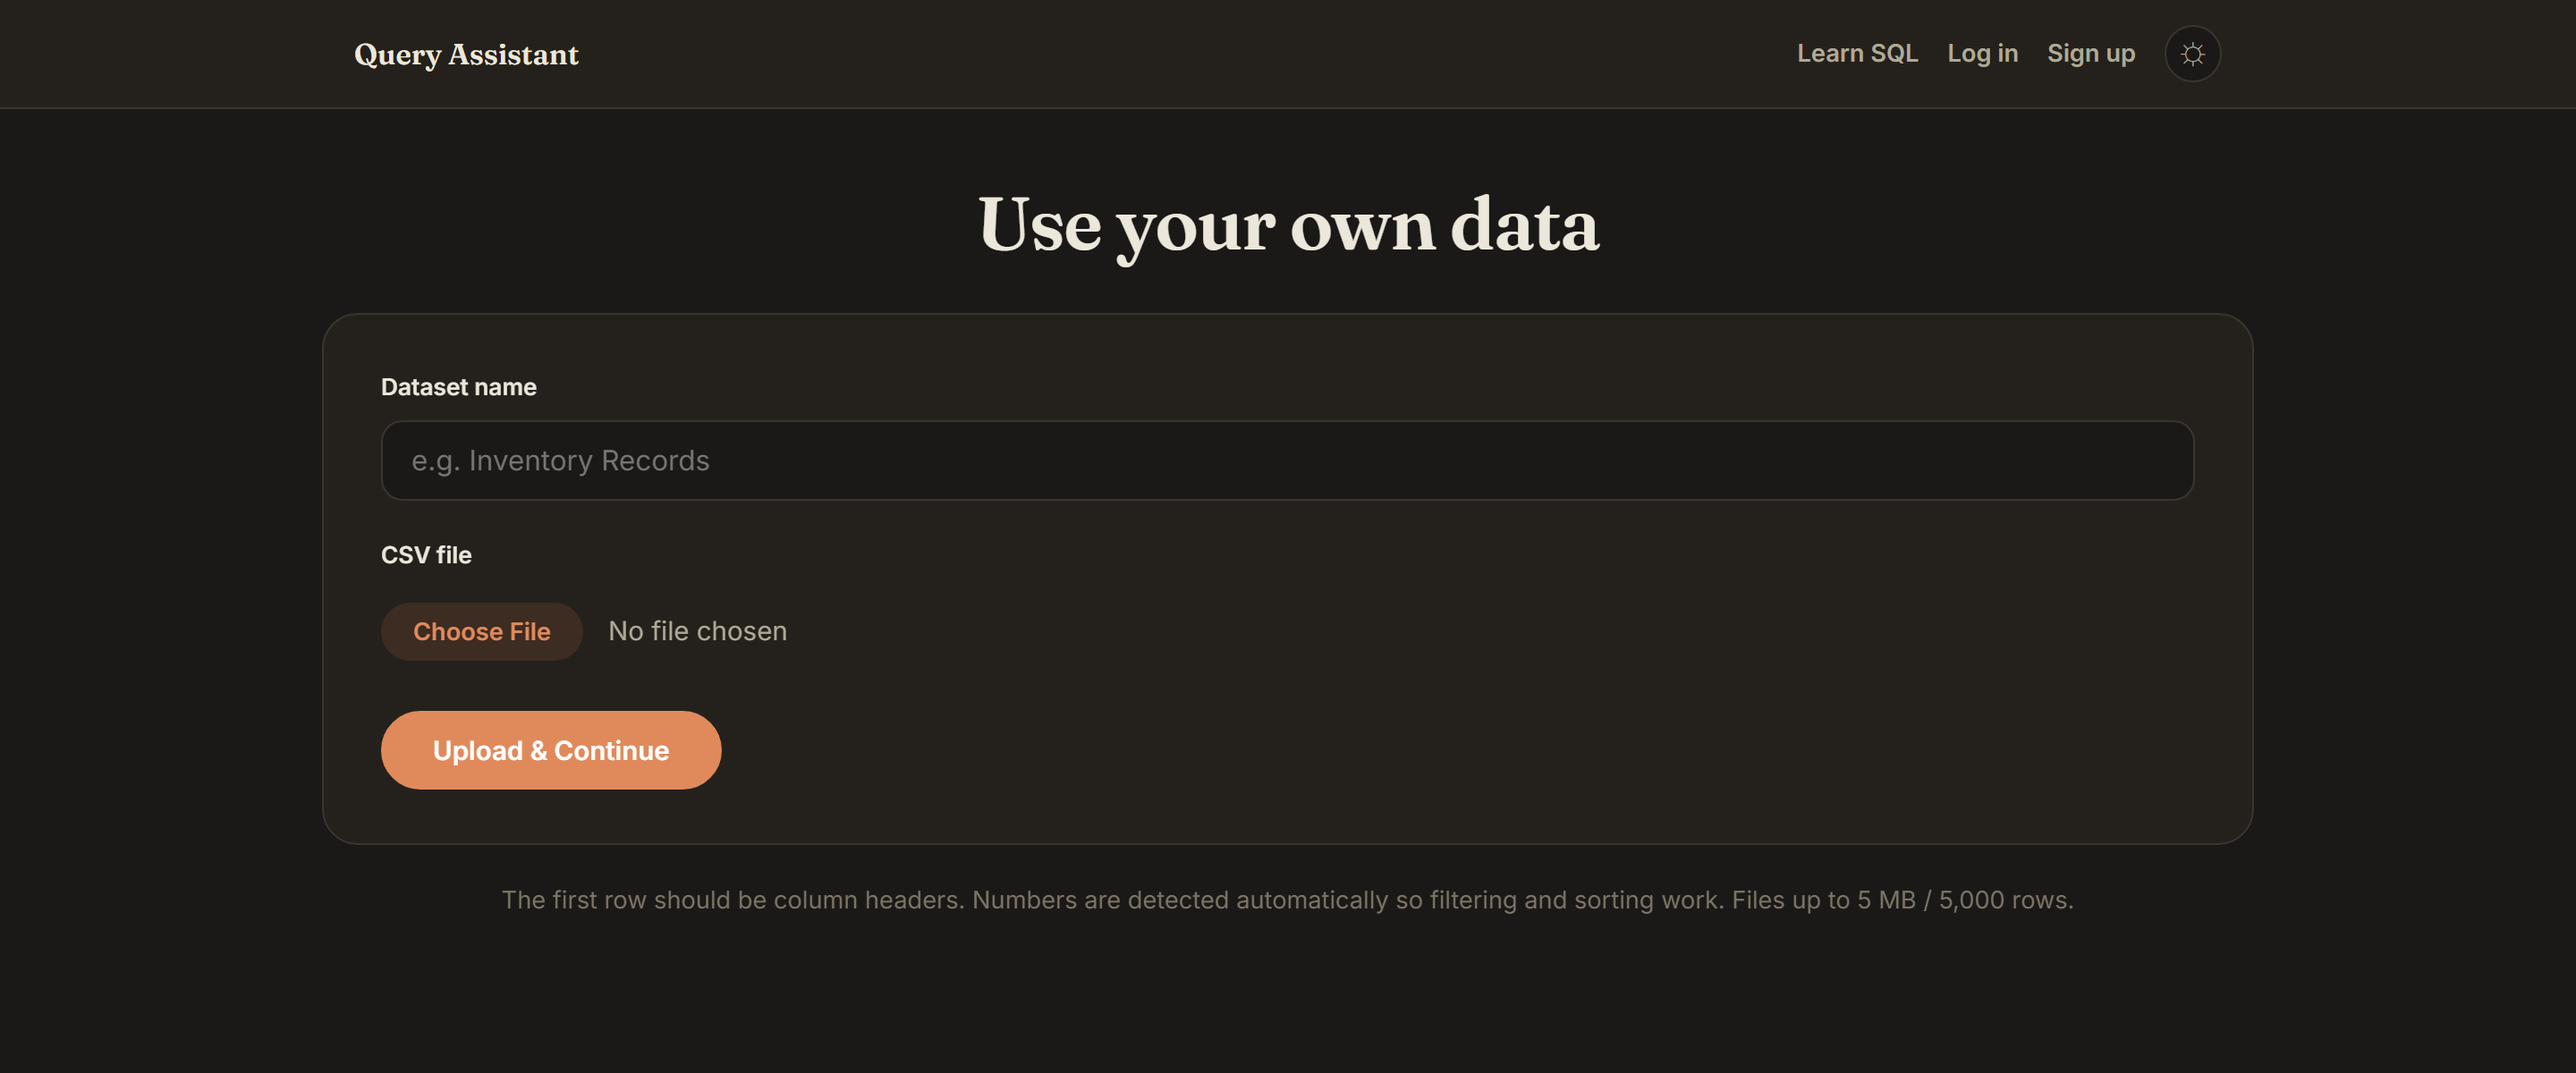
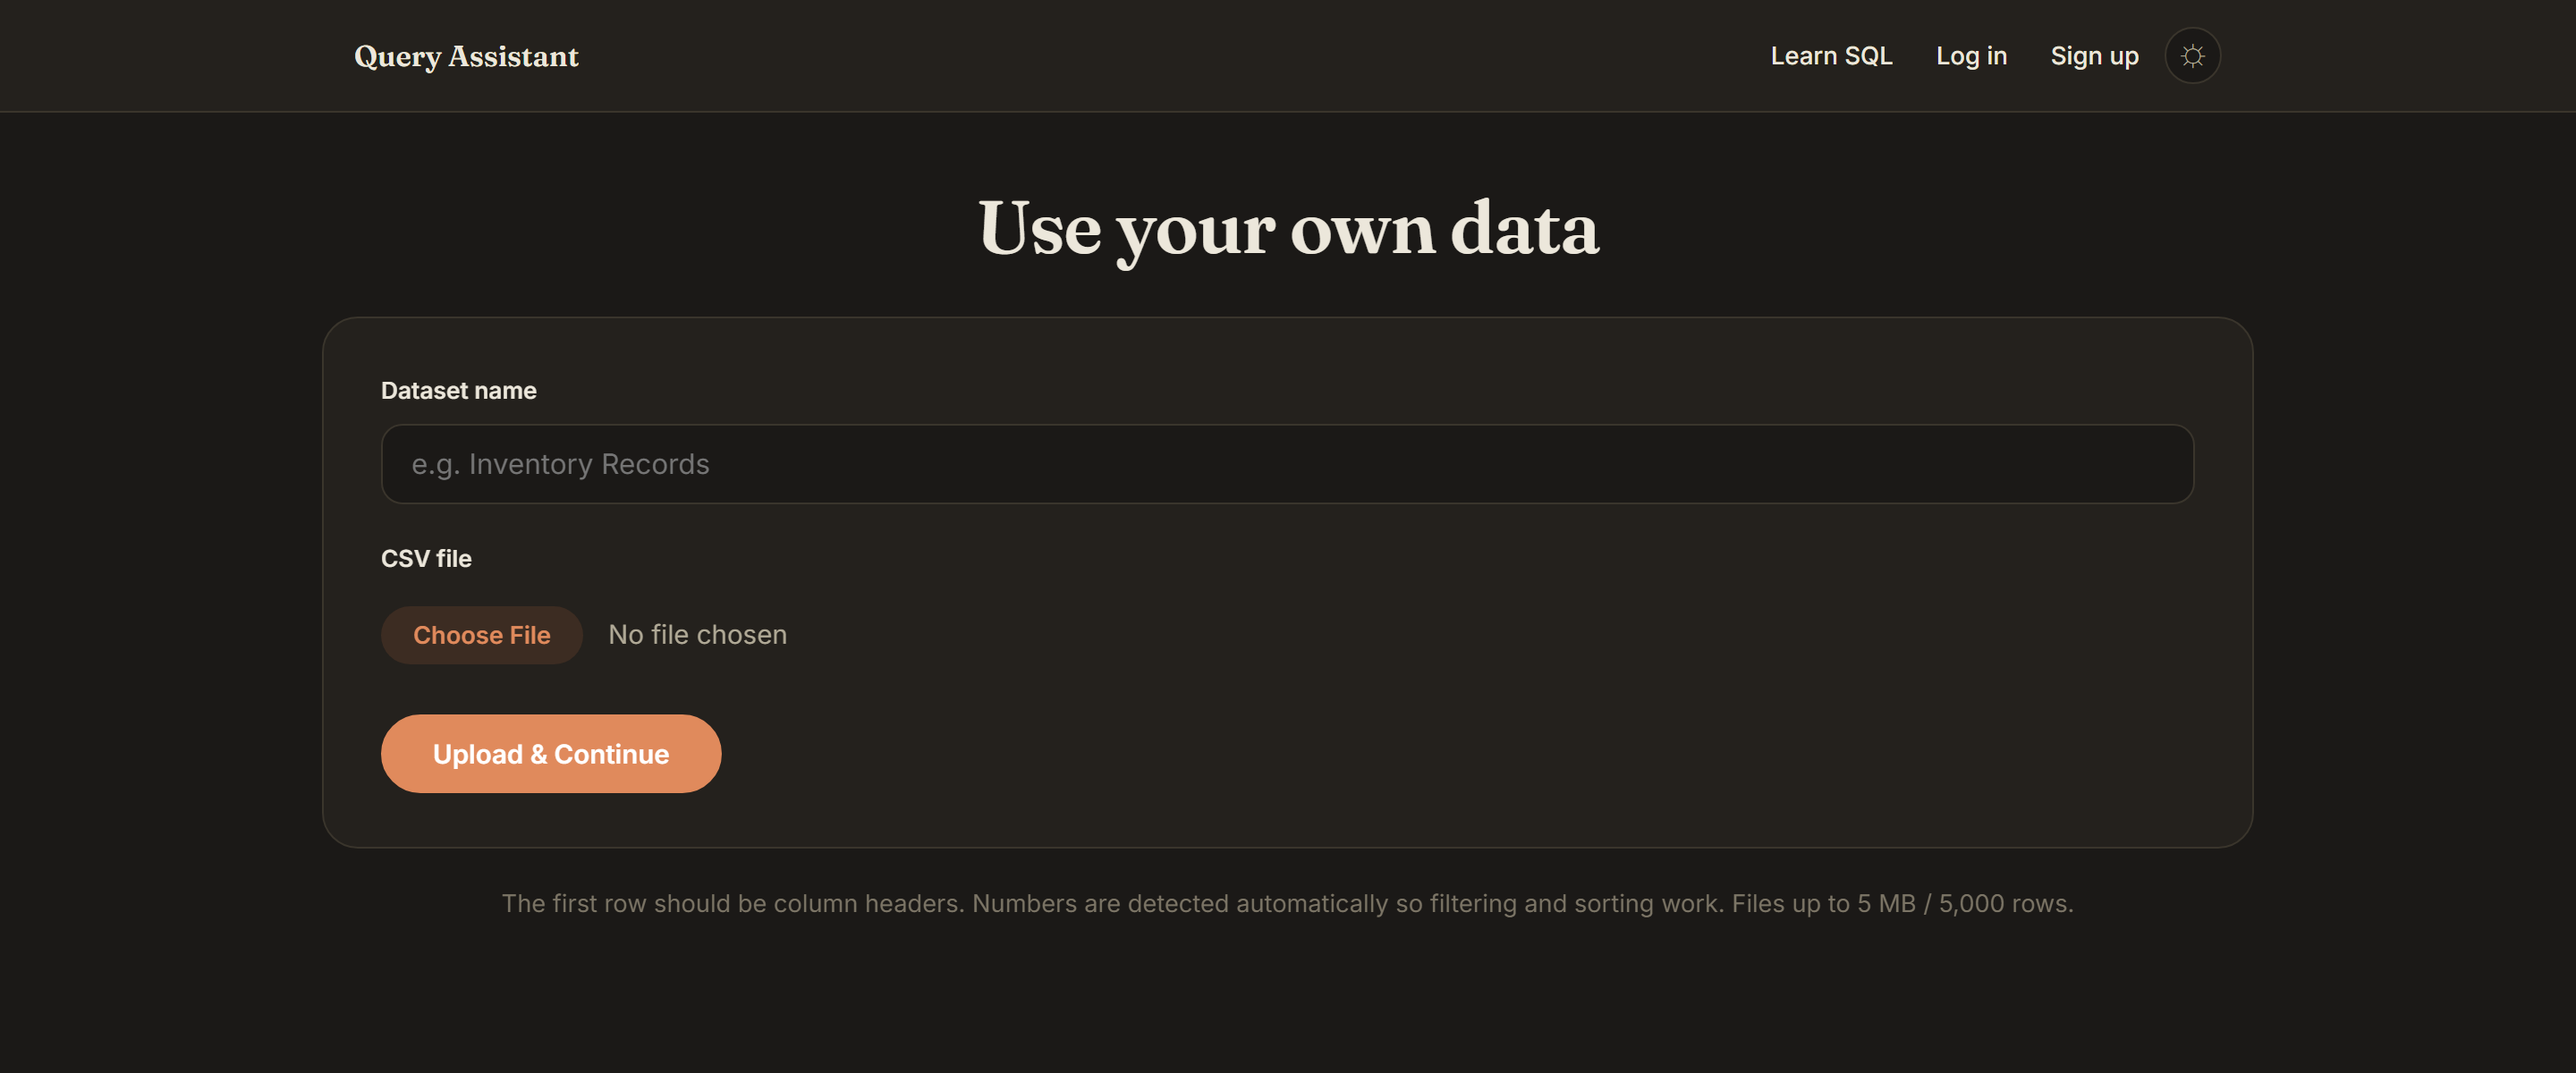
Bring the README back in line with what the app does
The screenshots were of the previous layout — subtitle, three filled buttons,
numbered step cards — none of which is on the page any more, and the hero shot
stopped short of the generated SQL, which is the one thing the app exists to show.
All six retaken, and the result shots now run down to the SQL box.

The feature table understated two things it had already learned to do. Roman Urdu
was described as recognising "kitne employees hain", from before it could apply a
department filter, read a date, tell totalling from counting, or return a single
row. And an uploaded CSV now answers the same shapes of question as the demo
schema, which the table didn't mention at all.

The structure listing had backend/db.py sitting outside backend/, and was missing
greeting.py, engines/phrases.py and utils/csv_export.py.

Also spells out that a filter is either applied or the question is refused. The
"says when it doesn't know" line covered questions it couldn't parse, but the
worse failure was in the ones it could: "IT walay employees" returning all
eighteen employees with the department quietly dropped.

diff --git a/README.md b/README.md
@@ -37,16 +37,18 @@ actually had.
 | | |
 |---|---|
 | **Plain-English questions** | *"employees in the IT department"*, *"products low on stock"*, *"total revenue this month"* |
-| **Roman Urdu too** | *"kitne employees hain"* works as well as *"how many employees"* |
+| **Roman Urdu too** | Not just the odd word — *"IT walay employees"* filters by department, *"aaj ke orders"* by date, *"total kitni sales hui"* totals rather than counts, *"sirf aik"* returns one row |
 | **Shows its work** | Every answer comes with the generated SQL, syntax-highlighted and copyable |
 | **Bring your own model** | Google Gemini or Anthropic Claude writes the SQL — set whichever key you have, or neither, and a rule-based engine takes over so the app never hard-fails |
 | **Says when it doesn't know** | The rule-based engine answers only the phrasings it genuinely encodes. Ask it something it can't express and it says so, and says why, instead of returning a table that looks like an answer |
 | **Your own data** | Upload a CSV, connect a SQLite file, or paste a PostgreSQL / Supabase connection string |
+| **Uploaded data answers back** | A spreadsheet gets the same treatment: *"total revenue"*, *"highest revenue"*, *"sab dikhao"* — column names are understood as columns rather than searched for as text |
 | **Tables and charts** | Results render as a table, and as a bar / line / pie chart when the shape of the data suits one |
 | **CSV export** | Download any result set |
 | **Accounts and history** | Optional sign-up; every question you ask is saved so you can find that query again |
 | **Learn SQL page** | A built-in guide from `SELECT` to multi-table joins, where every example runs live against the demo database |
 | **Light and dark** | Follows your preference, remembered across visits |
+| **A page that gets out of the way** | The heading is a greeting that follows the reader's clock; everything else on screen is something to use, not something explaining what to use |
 
 ## Quick start
 
@@ -109,6 +111,12 @@ earning more than 100000"* under the explanation "Lists all employees, sorted by
 it declines and the page explains which part it couldn't handle and that an API key
 would answer it. A confidently wrong answer is worse than no answer.
 
+The same rule applies to the parts of a question it *does* understand: a filter is
+either applied or the question is refused, never silently dropped. That distinction
+is what most of `tests/test_roman_urdu.py` exists to hold in place — "IT walay
+employees" once returned all eighteen employees, explained as "Lists all employees",
+because the department filter fell through without a word.
+
 ## Screenshots
 
 <table>
@@ -152,18 +160,21 @@ why. Click through to whichever one you're curious about.
 query-assistant/
 ├── backend/                  # Flask application — backend/README.md
 │   ├── app.py                   # Routes, request handling, view logic
+│   ├── db.py                    # SQLite / PostgreSQL dialect layer
 │   ├── config.py                # Central path configuration
-│   ├── database.py              # Demo schema + seed data
+│   ├── database.py              # Schema + demo seed data
 │   ├── auth.py                  # Accounts, login, query history
+│   ├── greeting.py              # The time-of-day heading
 │   ├── engines/                 # Question → SQL — engines/README.md
 │   │   ├── ai_engine.py            # Gemini / Claude generation + the SQL validator
-│   │   ├── rule_engine.py          # Rule-based fallback for the demo schema
-│   │   └── csv_engine.py           # Query builder for uploaded CSVs
+│   │   ├── rule_engine.py          # Rule-based answers for the demo schema
+│   │   ├── csv_engine.py           # Rule-based answers for an uploaded CSV
+│   │   └── phrases.py              # Vocabulary both rule-based engines share
 │   ├── connectors/              # External data sources — connectors/README.md
 │   │   ├── sqlite_connector.py     # Uploaded .db / .sqlite files
 │   │   └── postgres_connector.py   # PostgreSQL / Supabase over a DSN
 │   ├── content/                 # Static content for the Learn SQL page
-│   └── utils/                   # chart_utils.py — results into chart data
+│   └── utils/                   # chart_utils.py, csv_export.py
 │
 ├── frontend/                 # Everything the browser sees — frontend/README.md
 │   ├── templates/               # Jinja2 templates (+ partials/)
@@ -172,7 +183,6 @@ query-assistant/
 ├── tests/                    # 408 tests, ~6s, no network — tests/README.md
 ├── data/                     # Runtime data, git-ignored — data/README.md
 ├── docs/screenshots/         # Images used by this README
-├── backend/db.py             # SQLite / PostgreSQL dialect layer
 ├── run.py                    # Entry point (local)
 ├── api/index.py              # Entry point (serverless) — see Deployment
 ├── vercel.json               # Serverless routing + DATA_DIR override
